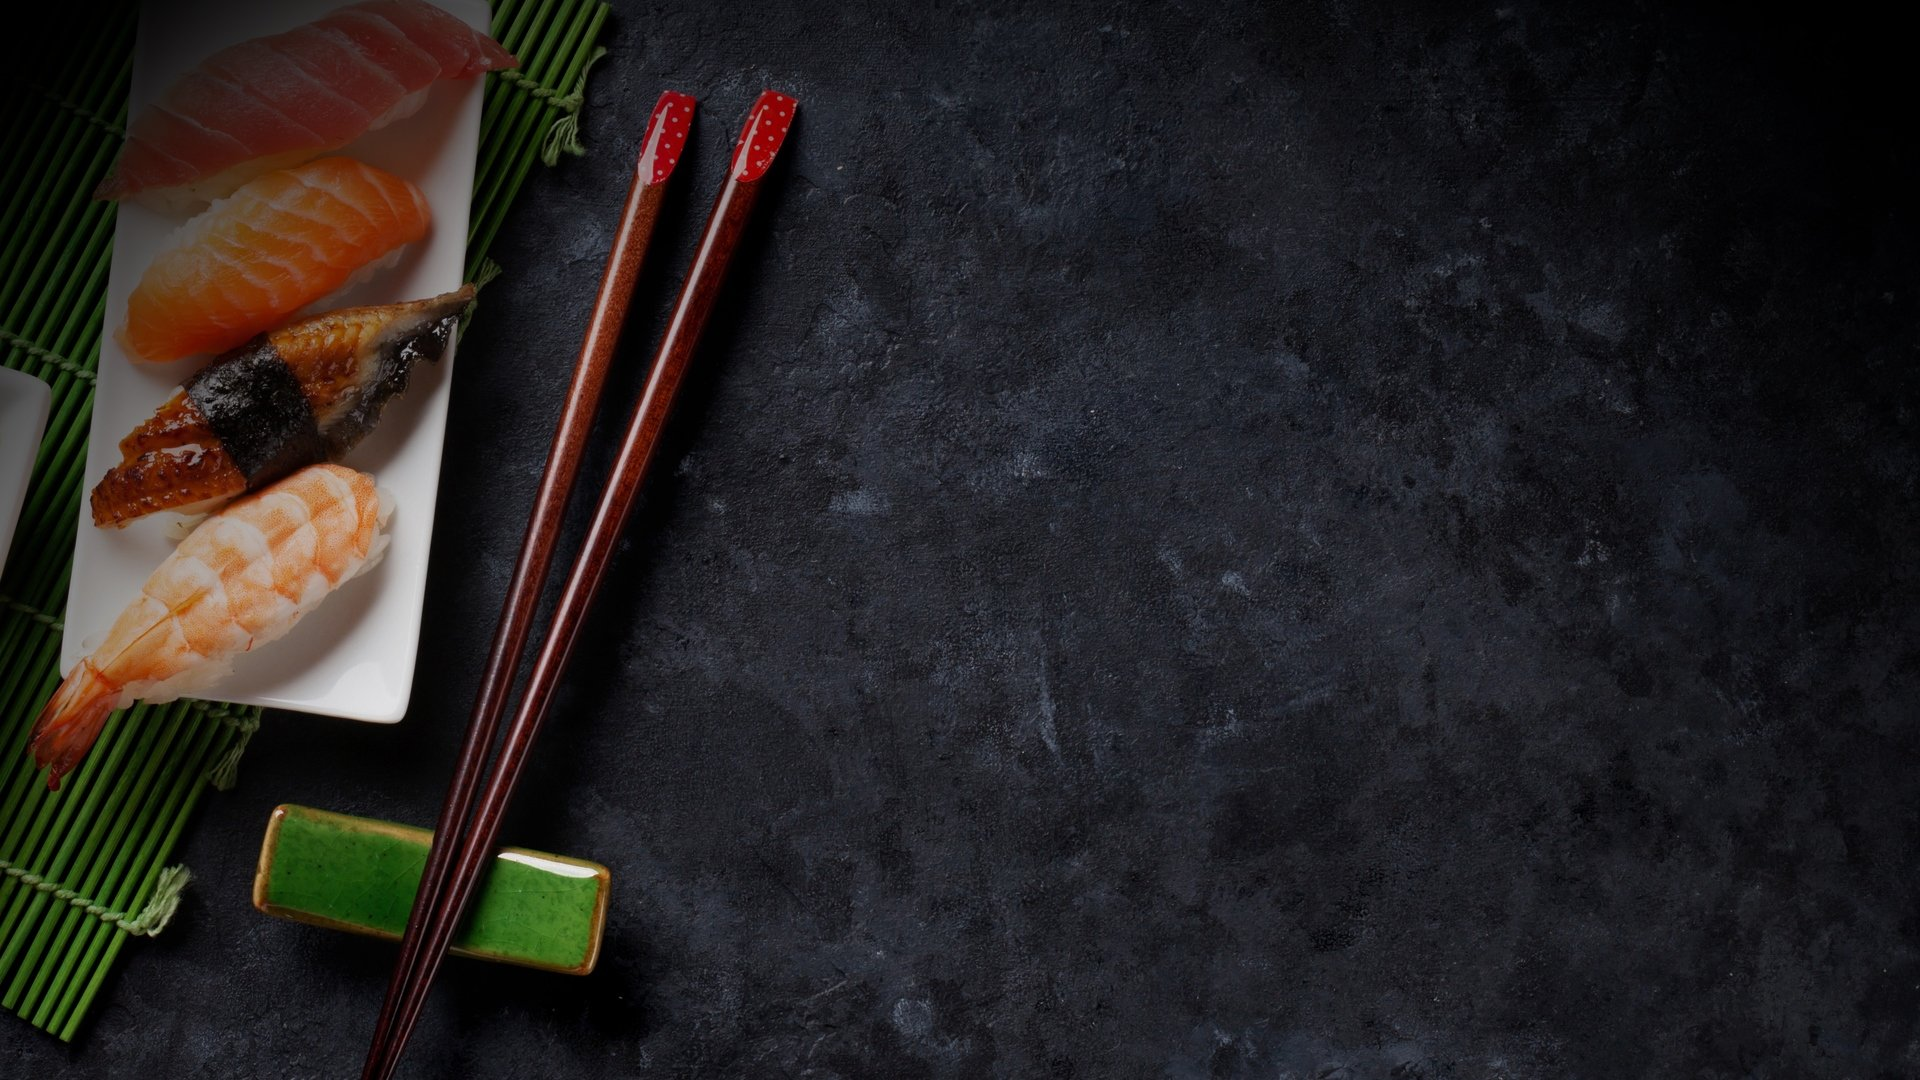
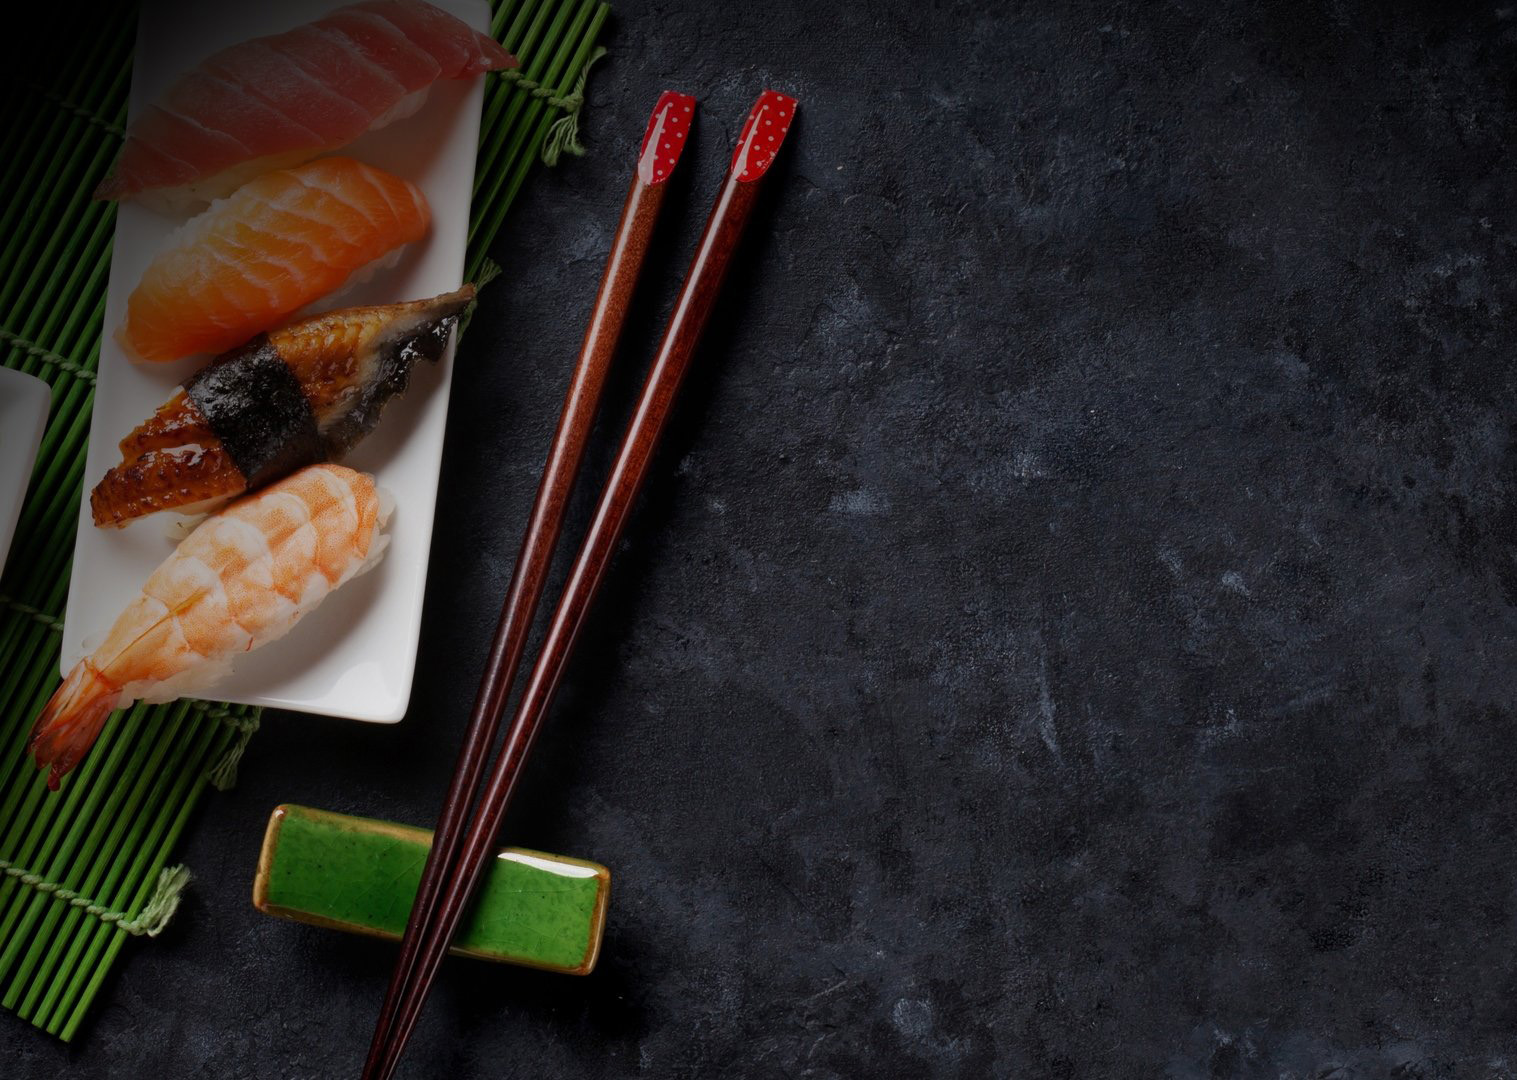
feat: add svg & update paths

diff --git a/src/components/header/header.tsx b/src/components/header/header.tsx
@@ -1,8 +1,9 @@
 import React, { ChangeEvent, ReactElement, useContext, useState } from 'react';
 import './header.scss';
-import { NavLink } from 'react-router-dom';
+import { Link, NavLink } from 'react-router-dom';
 import {
   ABOUT_PAGE,
+  ACCOUNT_PAGE,
   BASKET_PAGE,
   HOME_PAGE,
   MENU_PAGE,
@@ -34,8 +35,11 @@ const Search = (): ReactElement => {
 
 const Header = (): ReactElement => {
   const context = useContext(SignInContext);
-  context?.setSignIn(true);
+  // context?.setSignIn(true);
   console.log('isSignIn', context);
+  // const handleSignIn = (): void => {
+  //   // context?.setSignIn(true);
+  // };
   return (
     <>
       <header className="header">
@@ -76,14 +80,31 @@ const Header = (): ReactElement => {
                 basket
               </NavLink>
             </li>
-            <li className="nav__item">
-              <NavLink
-                className={({ isActive }): string => `login link ${isActive ? 'active' : ''}`}
-                to={SIGN_IN_PAGE}
-              >
-                Sign in
-              </NavLink>
-            </li>
+            {context?.isSignIn ? (
+              <li className="nav__item">
+                <Link className="login link" to={SIGN_IN_PAGE}>
+                  Sign in
+                </Link>
+              </li>
+            ) : (
+              <>
+                <li className="nav__item">
+                  <NavLink
+                    className={({ isActive }): string =>
+                      `personal-account link ${isActive ? 'active' : ''}`
+                    }
+                    to={ACCOUNT_PAGE}
+                  >
+                    account
+                  </NavLink>
+                </li>
+                <li className="nav__item">
+                  <Link className="exit link" to={'/'}>
+                    exist
+                  </Link>
+                </li>
+              </>
+            )}
           </ul>
         </nav>
       </header>

diff --git a/src/components/LoginForm/LoginForm.tsx b/src/components/LoginForm/LoginForm.tsx
@@ -1,4 +1,4 @@
-import { useState, FormEvent, useEffect } from 'react';
+import { useState, FormEvent, useEffect, useContext } from 'react';
 import LinkTo from '../LinkTo/LinkTo';
 import ForgotPasswordLink from '../ForgotPasswordLink/ForgotPasswordLink';
 import Button from '../Button/Button';
@@ -13,9 +13,10 @@ import { loginUserWithPassApi } from '../../api/loginUserWithPass';
 import { useNavigate } from 'react-router-dom';
 import { FAILED_TO_LOGGED_IN } from '../../utils/constants/constants';
 import { REGISTRATION_PAGE } from '../../utils/constants/paths';
+import { SignInContext } from '../SignInContext/SignInContext';
 
 const LoginForm = (): JSX.Element => {
-  const [showErrors, setShowErrors] = useState(false);
+  const [showErrors, setShowErrors] = useState(true);
   const [showErrorSignIn, setShowErrorSignIn] = useState(false);
   const [showErrorEmail, setShowErrorEmail] = useState(false);
   const [showErrorPassword, setShowErrorPassword] = useState(false);
@@ -23,15 +24,17 @@ const LoginForm = (): JSX.Element => {
   const [userEmail, setEmail] = useState('');
   const [password, setPassword] = useState('');
   const navigation = useNavigate();
+  const context = useContext(SignInContext);
 
   const handleSubmit = async (event: FormEvent<HTMLFormElement>): Promise<void> => {
     event.preventDefault();
-    setShowErrors(true);
+    setShowErrors(false);
     if (!showErrorEmail && !showErrorPassword && userEmail && password) {
       const responseLoginUser = await loginUserWithPassApi(userEmail, password);
       console.log('Response LoginUser:', responseLoginUser);
       if (responseLoginUser) {
         setShowErrorSignIn(false);
+        context?.setSignIn(true);
         navigation('/');
         // <Navigate to="/" />;
       } else {

diff --git a/src/components/Main/main.scss b/src/components/Main/main.scss
@@ -8,15 +8,16 @@
   display: flex;
   justify-content: center;
   align-items: center;
-
+  height: 100%;
   &__first-img {
     position: absolute;
     z-index: -1;
     background-image: url('../../assets/img/main-sushi.jpg');
     background-size: cover;
     width: 100vw;
-    height: 56.25vw;
+    height: 68.25vw;
     opacity: 0.5;
+    top: 0;
   }
   &__logo {
     background-color: black;

diff --git a/src/utils/constants/paths.ts b/src/utils/constants/paths.ts
@@ -4,5 +4,6 @@ export const REGISTRATION_PAGE = '/registration';
 export const MENU_PAGE = '/menu';
 export const ABOUT_PAGE = '/about';
 export const BASKET_PAGE = '/basket';
+export const ACCOUNT_PAGE = '/account';
 export const PASSWORD_RESET_PAGE = '/password-reset';
 export const NOT_FOUND_PAGE = '*';
